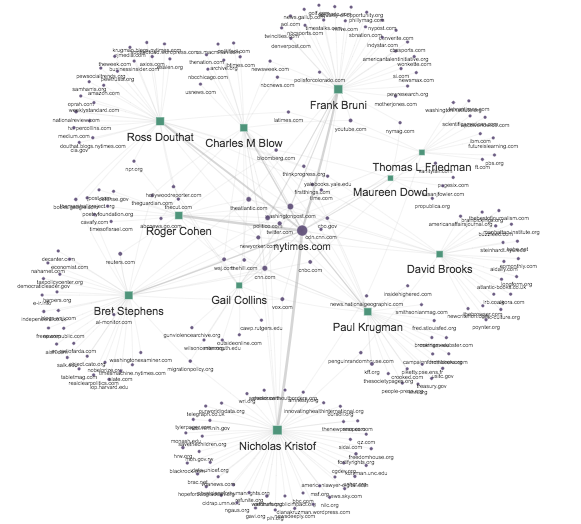
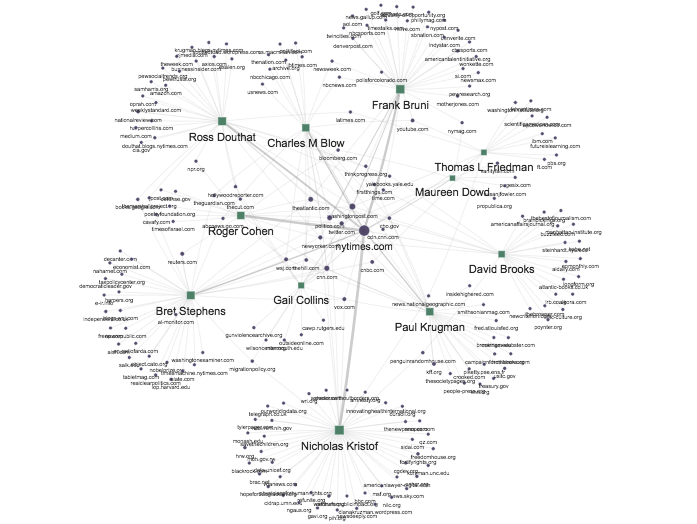
Update iframe

Changed region(s): [[0.031, 0.0, 0.9294, 1.0], [0.5267, 0.1221, 0.5577, 0.1527], [0.2788, 0.3053, 0.3098, 0.3359]]

diff --git a/_posts/2018-01-28-nyt-link-network.md b/_posts/2018-01-28-nyt-link-network.md
@@ -10,12 +10,12 @@ categories: projects
 
 When looking at communities of writers and thinkers, the most basic question is who is talking about whom? For scientists, the question is framed in terms of citiations networks. For bloggers, we look at which blogs link to other blogs. 
 
-I decided to apply this framework to another community of writers and thinkers: the  columnists of _The New York Times_ Opinion page. To do this, I collected the ten most recent articles from all 11 columnists in residence. I then extracted all of the hyperlinks from the body of the articles to create the network graph below. The code I used to collect, analyze, and visualize the links is available [on github](https://github.com/etachov/nyt_opinion_citations).
+I decided to apply this framework to another community of writers and thinkers: the  columnists of _The New York Times_ Opinion page. To do this, I collected the ten most recent articles from all 11 columnists in residence. I then extracted all of the hyperlinks from the body of the articles to create the interactive graph below. The code I used to collect, analyze, and visualize the links is available [on github](https://github.com/etachov/nyt_opinion_citations).
 
-<iframe width='100%' height='600px' frameBorder='0' src='http://etachov.io/projects/nyt_citation_graph_simple.html'></iframe>
-_Full screen [here](http://etachov.io/projects/nyt_citation_graph.html)_
+<iframe width='100%' height='800px' frameBorder='0' src='http://etachov.io/projects/nyt_citation_graph_simple.html'></iframe>
+*_Explore the full screen graph  [here](http://etachov.io/projects/nyt_citation_graph.html)_*
 
-Looking at this graph a few things popped out for me. First, it's clear which outlets are at the center of the conversation. _The New York Times_ was cited by the all 11 of the columnists, _Washington Post_ by nine, _The Atlantic_ by seven, and _CNN_ by seven. Taken together, these sources represent mainstream sources, at least from the perspetive of the Times' Opinion columnists.
+Looking at this graph a few things popped out for me. First, it's clear which outlets are at the center of the conversation. _The New York Times_ was cited by the all 11 of the columnists, _Washington Post_ by nine, _The Atlantic_ by seven, and CNN by seven. Taken together, these sources represent mainstream sources, at least from the perspetive of the Times' Opinion columnists.
 
 ![](/images/2018-01-28-nyt-graph-1-top-sources.gif)
 
@@ -32,3 +32,4 @@ Finally, Nicholas Kristoff's subnetwork is the most distinct. Of the sites he li
 
 ![](/images/2018-01-28-nyt-graph-4-distinct.gif)
 
+More to come!
